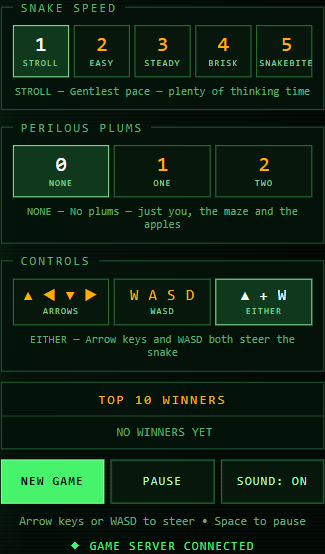
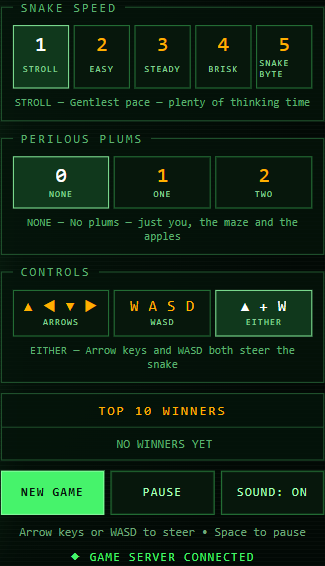
Correct Snake Byte branding

diff --git a/frontend/src/main.ts b/frontend/src/main.ts
@@ -1,8 +1,8 @@
 /**
- * Browser adapter for the server-authoritative Snakebite engine.
+ * Browser adapter for the server-authoritative Snake Byte engine.
  *
  * Learning note:
- * Canvas is used instead of a game framework because Snakebite needs only a
+ * Canvas is used instead of a game framework because Snake Byte needs only a
  * small grid renderer. The backend remains authoritative: the browser sends
  * player intentions, then renders only state broadcast by the server.
  */
@@ -69,7 +69,7 @@ const DIFFICULTIES: readonly { value: number; label: string; hint: string }[] = 
   { value: 2, label: 'EASY', hint: 'Relaxed pace with room to recover' },
   { value: 3, label: 'STEADY', hint: 'A balanced, classic arcade pace' },
   { value: 4, label: 'BRISK', hint: 'Quick reactions needed' },
-  { value: 5, label: 'SNAKEBITE', hint: 'Full 1981 arcade speed' },
+  { value: 5, label: 'SNAKE BYTE', hint: 'Full 1981 arcade speed' },
 ]
 
 const DEFAULT_DIFFICULTY = 1
@@ -152,7 +152,7 @@ document.querySelector<HTMLDivElement>('#app')!.innerHTML = `
     <header class="masthead">
       <div class="brand">
         <p class="eyebrow">Apple IIe spirit. Modern Python engine.</p>
-        <h1>SNAKEBITE</h1>
+        <h1>SNAKE BYTE</h1>
       </div>
       <div class="score-panel" aria-live="polite">
         <div class="score-box">
@@ -187,12 +187,12 @@ document.querySelector<HTMLDivElement>('#app')!.innerHTML = `
       </div>
     </header>
 
-    <section class="game-frame" id="game-frame" aria-label="Snakebite game">
+    <section class="game-frame" id="game-frame" aria-label="Snake Byte game">
       <canvas
         id="game"
         width="${CANVAS_WIDTH}"
         height="${CANVAS_HEIGHT}"
-        aria-label="Snakebite game board"
+        aria-label="Snake Byte game board"
       ></canvas>
       <div id="overlay" class="overlay">
         <span id="trophy-icon" class="trophy-icon" aria-hidden="true" hidden>🏆</span>

diff --git a/frontend/index.html b/frontend/index.html
@@ -7,9 +7,9 @@
     <meta name="theme-color" content="#08140c" />
     <meta
       name="description"
-      content="A modern browser recreation of the Apple IIe classic Snakebite."
+      content="A modern browser recreation of the Apple IIe classic Snake Byte."
     />
-    <title>Snakebite Reimagined</title>
+    <title>Snake Byte Reimagined</title>
   </head>
   <body>
     <div id="app"></div>

diff --git a/backend/app/domain/game.py b/backend/app/domain/game.py
@@ -1,4 +1,4 @@
-"""Framework-independent rules and state for a game of Snakebite.
+"""Framework-independent rules and state for a game of Snake Byte.
 
 The domain module deliberately imports neither FastAPI nor Pydantic. Keeping the
 rules independent from delivery and persistence concerns means the same engine
@@ -336,7 +336,7 @@ class GameState:
 
 
 class GameEngine:
-    """Advance and control server-authoritative Snakebite game state.
+    """Advance and control server-authoritative Snake Byte game state.
 
     Args:
         board: Optional board dimensions, useful for alternate modes and tests.

diff --git a/backend/app/main.py b/backend/app/main.py
@@ -38,7 +38,7 @@ async def lifespan(_: FastAPI) -> AsyncIterator[None]:
         await database.close()
 
 
-app = FastAPI(title="Snakebite", version="0.1.0", lifespan=lifespan)
+app = FastAPI(title="Snake Byte", version="0.1.0", lifespan=lifespan)
 app.include_router(router)
 
 

diff --git a/backend/tests/test_game.py b/backend/tests/test_game.py
@@ -1,4 +1,4 @@
-"""Executable examples of the core Snakebite movement rules.
+"""Executable examples of the core Snake Byte movement rules.
 
 Fixed random seeds keep food placement deterministic so failures describe game
 logic changes rather than random test data.

diff --git a/main.py b/main.py
@@ -1,4 +1,4 @@
-"""Run the Snakebite development server."""
+"""Run the Snake Byte development server."""
 
 import uvicorn
 

diff --git a/backend/app/repositories/__init__.py b/backend/app/repositories/__init__.py
@@ -1,1 +1,1 @@
-"""Persistence adapters for Snakebite."""
+"""Persistence adapters for Snake Byte."""

diff --git a/backend/__init__.py b/backend/__init__.py
@@ -1,1 +1,1 @@
-"""Snakebite backend package."""
+"""Snake Byte backend package."""

diff --git a/README.md b/README.md
@@ -1,6 +1,6 @@
-# Snakebite Reimagined
+# Snake Byte Reimagined
 
-The first playable browser build of a modern Apple IIe-inspired Snakebite game:
+The first playable browser build of a modern Apple IIe-inspired Snake Byte game:
 
 - Python 3.15 and FastAPI backend
 - Framework-independent, typed game engine
@@ -20,17 +20,17 @@ The first playable browser build of a modern Apple IIe-inspired Snakebite game:
 
 ## Screenshots
 
-The demo screenshot shows the autonomous attract mode navigating the level-10
-room maze. The controls panel shows the selectable snake speeds, perilous plums,
-keyboard layouts, and winners leaderboard.
+The demo screenshot shows the autonomous attract mode navigating a maze. The
+controls panel shows the selectable snake speeds, perilous plums, keyboard
+layouts, and winners leaderboard.
 
-![Snakebite attract-mode gameplay on the level-10 room maze](docs/demo-mode.png)
+![Snake Byte attract-mode gameplay on the level-10 room maze](docs/demo-mode.png)
 
-![Snakebite game speed, plum, steering, and leaderboard controls](docs/game-controls.png)
+![Snake Byte game speed, plum, steering, and leaderboard controls](docs/game-controls.png)
 
 ## Choosing a speed
 
-Snakebite is meant to stay playable at any reaction speed, so the pace is an
+Snake Byte is meant to stay playable at any reaction speed, so the pace is an
 explicit setting rather than a hidden constant. Pick a level before starting a
 new game:
 
@@ -40,7 +40,7 @@ new game:
 | 2 | EASY | 0.32 |
 | 3 | STEADY | 0.25 |
 | 4 | BRISK | 0.19 |
-| 5 | SNAKEBITE | 0.13 |
+| 5 | SNAKE BYTE | 0.13 |
 
 Each in-game level speeds the snake by 6 percent, but the pace never drops
 below 60 percent of the chosen starting interval from level progression alone.
@@ -184,7 +184,7 @@ CORS configuration.
 
 ## Architecture
 
-Snakebite is a modular monolith with a strict server-authoritative boundary:
+Snake Byte is a modular monolith with a strict server-authoritative boundary:
 
 ```mermaid
 flowchart LR
@@ -249,6 +249,8 @@ Clicking the PLAYER value turns that value into an inline, cabinet-styled text
 field. Enter saves, Escape cancels, and leaving the field saves. Names are
 normalized and limited to 24 characters in both the browser and API. The browser
 stores the preference in `localStorage` and sends it with each new-game request.
+The historical `snakebite` database filename and browser preference keys remain
+unchanged so an existing local install keeps its scores and settings.
 
 Each browser profile receives its own independent game state. Before opening
 the game WebSocket, the client calls `POST /session`; the server creates a

diff --git a/docs/project-specification.md b/docs/project-specification.md
@@ -1,8 +1,8 @@
-# Project Specification: Snakebite Reimagined
+# Project Specification: Snake Byte Reimagined
 
 ## Project Goal
 
-Recreate the classic Apple IIe game "Snakebite" using modern software engineering practices while preserving the original gameplay experience.
+Recreate the classic Apple IIe game "Snake Byte" using modern software engineering practices while preserving the original gameplay experience.
 
 The project serves two purposes:
 
@@ -15,7 +15,7 @@ The project serves two purposes:
 
 The game should feel like:
 
-- Apple IIe Snakebite
+- Apple IIe Snake Byte
 - Fast
 - Responsive
 - Retro-inspired
@@ -42,7 +42,7 @@ Every significant implementation should include learning notes explaining why an
 
 Study:
 
-- Original Apple IIe Snakebite
+- Original Apple IIe Snake Byte
 - Gameplay mechanics
 - Scoring
 - Controls

diff --git a/docs/adr/ADR-002-use-canvas.md b/docs/adr/ADR-002-use-canvas.md
@@ -2,7 +2,7 @@
 
 ## Context
 
-Snakebite needs responsive grid rendering, keyboard and touch input, and a
+Snake Byte needs responsive grid rendering, keyboard and touch input, and a
 low-latency connection to the authoritative backend. The project also aims to
 teach the underlying browser APIs.
 
@@ -16,7 +16,7 @@ renders state received from FastAPI and sends only player intentions.
 - DOM elements for every cell: simple initially, but creates unnecessary
   layout work and spreads rendering across many elements.
 - A game framework: useful for physics and scenes, but excessive for a fixed
-  Snakebite grid and less transparent for learners.
+  Snake Byte grid and less transparent for learners.
 - Client-authoritative rules: responsive, but duplicates the Python engine and
   makes cheating or divergent states more likely.
 

diff --git a/docs/architecture/overview.md b/docs/architecture/overview.md
@@ -1,6 +1,6 @@
-# Snakebite architecture
+# Snake Byte architecture
 
-Snakebite starts as a **modular monolith**: one deployable FastAPI application
+Snake Byte starts as a **modular monolith**: one deployable FastAPI application
 with strict boundaries between the domain and adapters. This keeps the learning
 project easy to run while allowing the game engine to be tested without an HTTP
 server or database.
